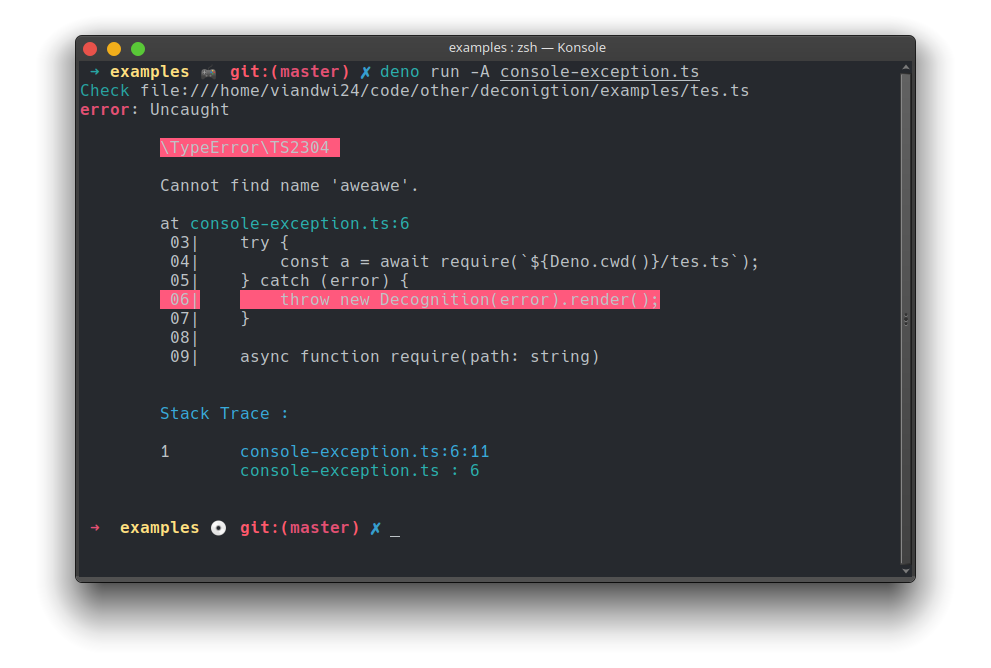
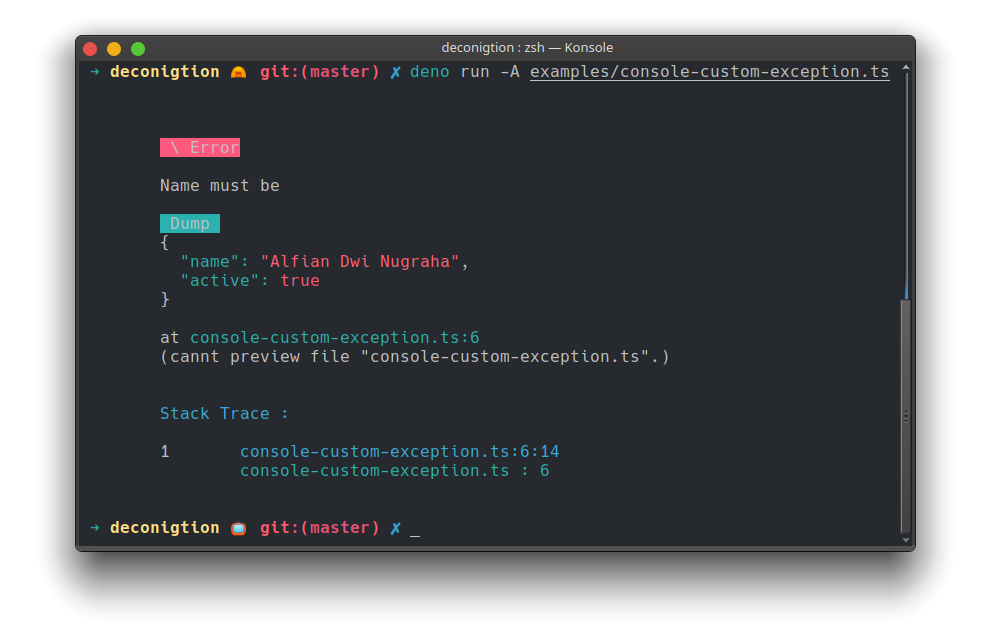
[UPDATE] example, readme,ss

diff --git a/examples/console-custom-exception.ts b/examples/console-custom-exception.ts
@@ -2,4 +2,5 @@ import { NotFoundException } from "./custom-exception.ts";
 import { BError } from "https://deno.land/x/berror/berror.ts";
 import { Decognition } from "../mod.ts";
 
-throw new Decognition("Your name must 3 word.", { name: "Alfian Dwi" }).render();
+let params = { name: "Alfian Dwi Nugraha", active: true };
+console.log((new Decognition("Name must be at least 10 characters.", params)).render());

diff --git a/README.md b/README.md
@@ -37,7 +37,7 @@ console.log(
     new Decognition("undefined variable a").render();
 );
 ```
-Render to HTML :
+Render to HTML : (render html with Dejs library, so return promise)
 ```
 let exeption = new Decognition("undefined variable a");
 console.log(await exeption.renderHtml());
@@ -50,6 +50,11 @@ export class NotFoundException extends Decognition {
         this.message = "[NotFound] " + this.message;
     }
 }
+```
+With Dump variable :
+```
+let params = { name: "Alfian Dwi Nugraha", active: true };
+(new Decognition("Name must be at least 10 characters.", params)).render();
 ```
 
 ## Example
